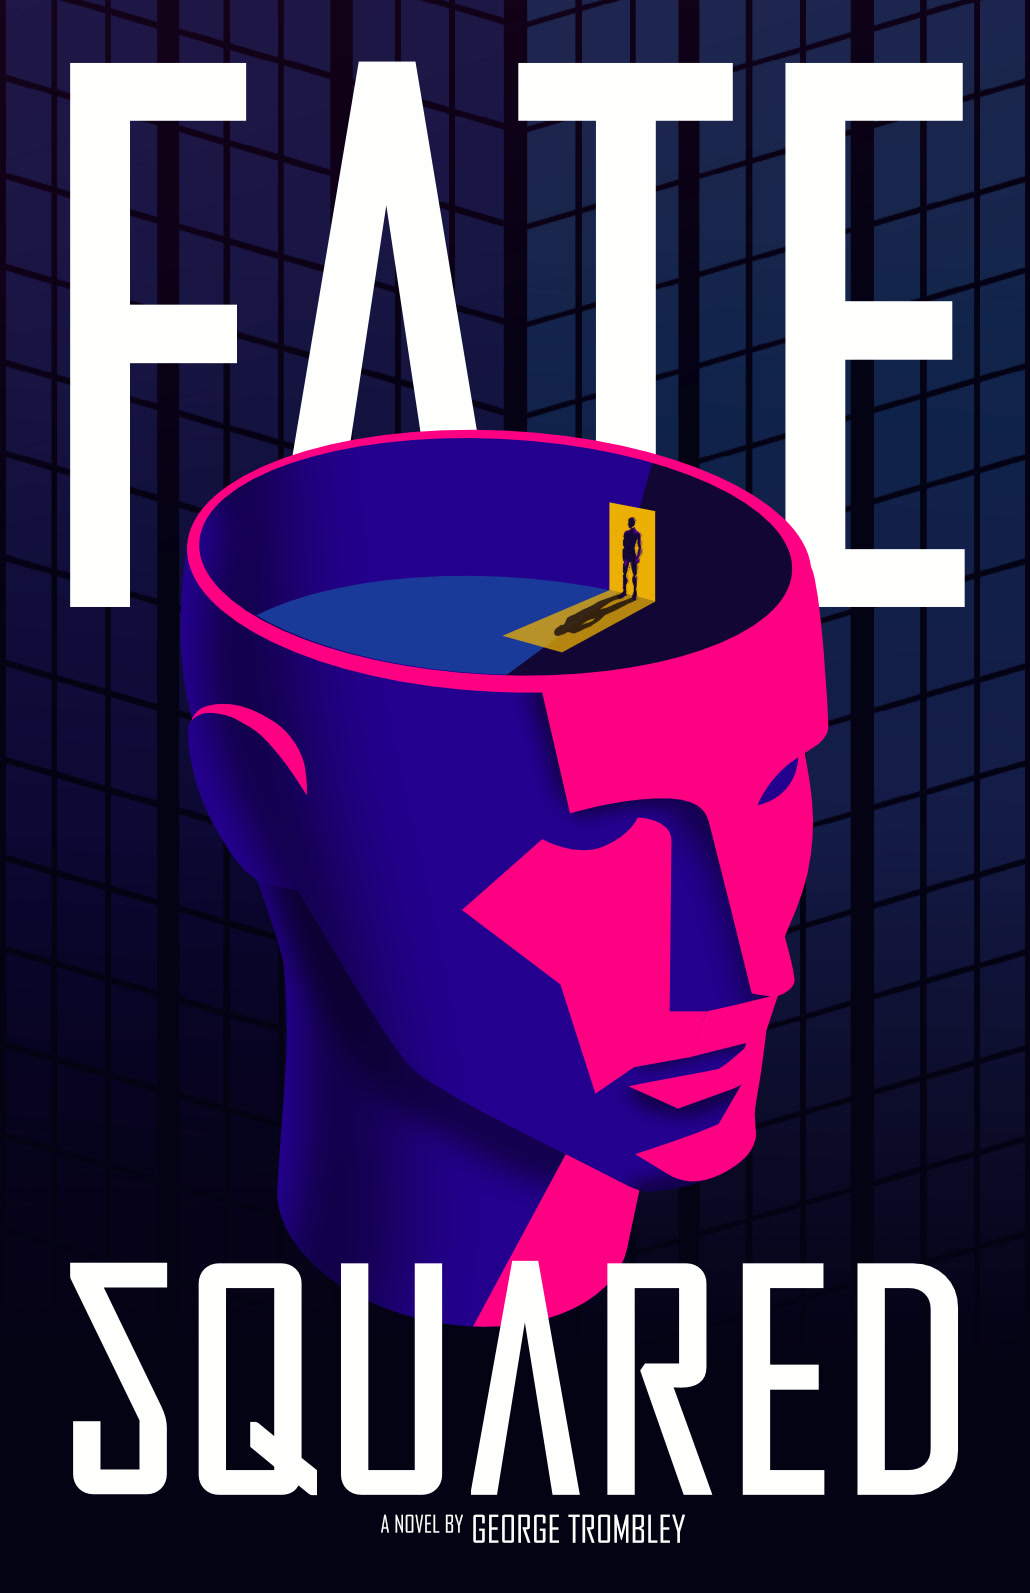
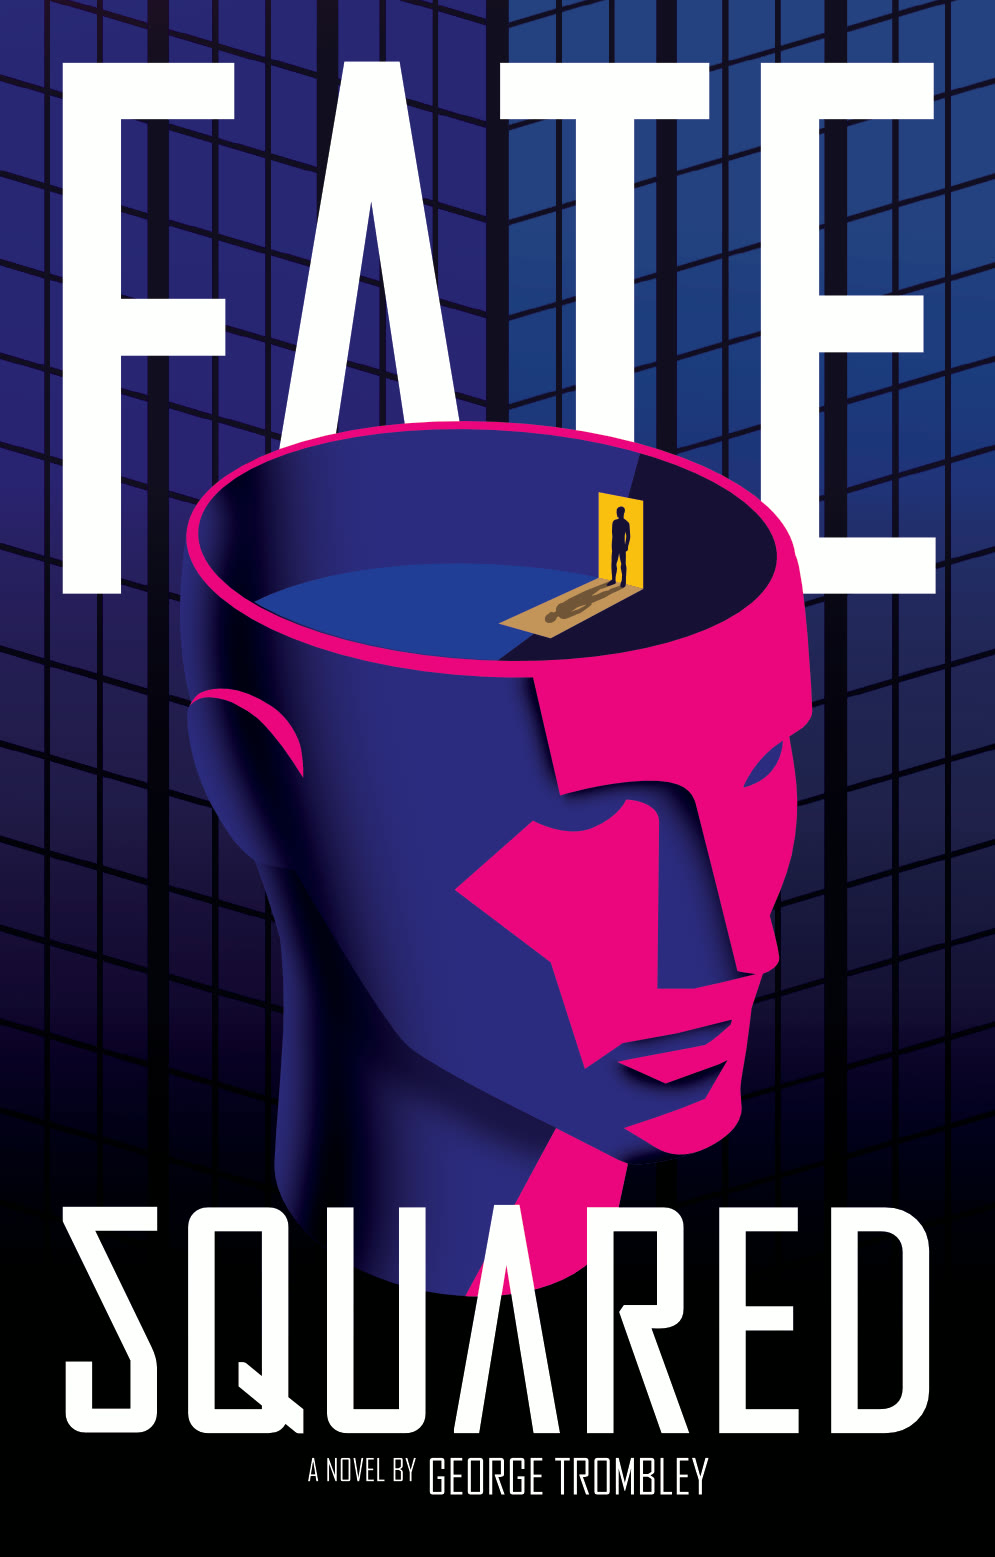
Update the book graphics to the September cover
Re-crop the front, back, spine and social-share images from the new
print spread, and version the image URLs so caches refetch them. The
book's aspect ratio and spine thickness follow the new crop sizes.

diff --git a/index.html b/index.html
@@ -14,14 +14,14 @@
   <meta property="og:title" content="Fate Squared — A Novel by George Trombley">
   <meta property="og:description" content="Is one person's life a fair trade to save millions? A thriller by George Trombley. Coming October 29, 2026 from Sandspeck Press.">
   <meta property="og:url" content="https://fatesquared.com/">
-  <meta property="og:image" content="https://fatesquared.com/assets/og.jpg">
+  <meta property="og:image" content="https://fatesquared.com/assets/og.jpg?v=2">
   <meta property="book:isbn" content="9781959949046">
   <meta property="book:release_date" content="2026-10-29">
   <meta property="book:author" content="George Trombley">
   <meta name="twitter:card" content="summary_large_image">
   <meta name="twitter:title" content="Fate Squared — A Novel by George Trombley">
   <meta name="twitter:description" content="Is one person's life a fair trade to save millions? A thriller by George Trombley. Coming October 29, 2026.">
-  <meta name="twitter:image" content="https://fatesquared.com/assets/og.jpg">
+  <meta name="twitter:image" content="https://fatesquared.com/assets/og.jpg?v=2">
 
   <link rel="icon" href="assets/favicon.svg" type="image/svg+xml">
 
@@ -34,7 +34,7 @@
   <link rel="preconnect" href="https://fonts.googleapis.com">
   <link rel="preconnect" href="https://fonts.gstatic.com" crossorigin>
   <link href="https://fonts.googleapis.com/css2?family=Big+Shoulders+Display:wght@500;700;900&family=Instrument+Sans:ital,wght@0,400;0,500;0,600;0,700;1,400&display=swap" rel="stylesheet">
-  <link rel="stylesheet" href="styles.css?v=3">
+  <link rel="stylesheet" href="styles.css?v=4">
 
   <script type="application/ld+json">
   {
@@ -48,7 +48,7 @@
     "inLanguage": "en",
     "genre": "Thriller",
     "url": "https://fatesquared.com/",
-    "image": "https://fatesquared.com/assets/cover-front.jpg",
+    "image": "https://fatesquared.com/assets/cover-front.jpg?v=2",
     "description": "Is one person's life a fair trade to save millions? Ever since his MMA fighting career ended at its height with a horrible injury, George Williams has worked every day of the week to pay off a crushing debt. Then a shadowy tech corporation called LETR makes him an offer too good to refuse."
   }
   </script>
@@ -109,7 +109,7 @@
         <div class="book" id="book" tabindex="0" role="button" aria-pressed="false" aria-label="Book cover. Press to flip and read the back cover.">
           <div class="book__inner">
             <div class="book__face book__front">
-              <img src="assets/cover-front.jpg" alt="Fate Squared front cover: a stylized magenta and indigo head, its top open to reveal a lone figure standing in a glowing golden doorway." width="990" height="1600" fetchpriority="high" onerror="this.parentNode.classList.add('is-missing')">
+              <img src="assets/cover-front.jpg?v=2" alt="Fate Squared front cover: a stylized magenta and indigo head, its top open to reveal a lone figure standing in a glowing golden doorway." width="995" height="1557" fetchpriority="high" onerror="this.parentNode.classList.add('is-missing')">
               <div class="book__fallback" aria-hidden="true">
                 <span class="book__fallback-title">Fate<br>Squared</span>
                 <span class="book__fallback-door"></span>
@@ -117,14 +117,14 @@
               </div>
             </div>
             <div class="book__face book__back">
-              <img src="assets/cover-back.jpg" alt="Fate Squared back cover with the synopsis and author bio." width="990" height="1600" loading="lazy" onerror="this.parentNode.classList.add('is-missing')">
+              <img src="assets/cover-back.jpg?v=2" alt="Fate Squared back cover with the synopsis and author bio." width="994" height="1557" loading="lazy" onerror="this.parentNode.classList.add('is-missing')">
               <div class="book__fallback book__fallback--back" aria-hidden="true">
                 <span class="book__fallback-q">Is one person's life a fair trade to save millions?</span>
                 <span class="book__fallback-small">Sandspeck Press · 2026</span>
               </div>
             </div>
             <div class="book__spine" aria-hidden="true">
-              <img src="assets/spine.jpg" alt="" width="220" height="1606" onerror="this.parentNode.classList.add('is-missing')">
+              <img src="assets/spine.jpg?v=2" alt="" width="215" height="1557" onerror="this.parentNode.classList.add('is-missing')">
               <span>Fate Squared · George Trombley</span>
             </div>
             <!-- Page block: fore-edge, head and tail. Cream paper, faintly striped. -->

diff --git a/styles.css b/styles.css
@@ -350,7 +350,7 @@ em { font-style: italic; }
   position: relative; z-index: 1;
 }
 
-/* Geometry: the cover file is 1030×1593; the spine on the print spread is 220px
+/* Geometry: the cover file is 995×1557; the spine on the print spread is 215px
    wide at the same scale — a ~1.2" block on a 5.5" trim (400+ pages). Thickness
    is derived from width so it stays in proportion at every size. */
 .book {
@@ -358,11 +358,11 @@ em { font-style: italic; }
   --ry: 0deg;
   --flip: 0deg;
   --book-w: min(360px, 78vw);
-  --book-thick: calc(var(--book-w) * 0.2136);
+  --book-thick: calc(var(--book-w) * 0.2161);
   --page-inset: 1.1%;
   position: relative; z-index: 1;
   width: var(--book-w);
-  aspect-ratio: 1030 / 1593;
+  aspect-ratio: 995 / 1557;
   perspective: 1800px;
   cursor: pointer;
   outline-offset: 12px;

diff --git a/assets/README.md b/assets/README.md
@@ -5,9 +5,9 @@ initials block, hidden section) if one is missing.
 
 | File | Status | Notes |
 |---|---|---|
-| `cover-front.jpg` | ✅ in place | From `Graphics/fate squared front cover.png` (1030×1593), exported as JPG. |
-| `cover-back.jpg` | ✅ in place | From `Graphics/fate squared back cover.png`. Shown when the visitor taps the book. |
-| `spine.jpg` | ✅ in place | The 220×1606 spine strip cropped from `Graphics/fate squared FULL SPREAD.png` (x 1024–1244). Drives the 3D book's spine; its 220:1030 width ratio also sets the book's thickness in CSS (`.book { --book-thick }`). |
+| `cover-front.jpg` | ✅ in place | 995×1557, cropped from the September 2026 print spread (`Updated FateSquared Bookcover.png`, x 1209–2204, full height) and exported as JPG. |
+| `cover-back.jpg` | ✅ in place | 994×1557, cropped from the same spread (x 0–994). Shown when the visitor taps the book. |
+| `spine.jpg` | ✅ in place | The 215×1557 spine strip cropped from the spread (x 994–1209). Drives the 3D book's spine; its 215:995 width ratio also sets the book's thickness in CSS (`.book { --book-thick }`). |
 | `author.jpg` | ✅ in place | 1000×1250 (4:5), cropped from `Graphics/author.png` (3840×2160). Crop region located by template-matching the back-cover portrait against the 4K frame, then widened to 4:5. |
 | `og.jpg` | ✅ generated | 1200×630 social-share image: front cover over a blurred full spread. Regenerate any time with the ffmpeg command below. |
 | `chapter-1.mp3` | optional | If present, the **Listen** section and nav link appear automatically. |
@@ -15,13 +15,39 @@ initials block, hidden section) if one is missing.
 | `FateSquared-Regular.woff2` / `.ttf` | declared, unused | The Regular cut, declared at `font-weight: 400` under the same `FateSquared` family. Nothing currently uses it, so it is never downloaded — switch `.hero__title { font-weight }` to 400 to try it. |
 | `favicon.svg` | ✅ in place | Tab icon. Replace if you like. |
 
-Regenerate `og.jpg` from the source graphics:
+## Print spread layout (September 2026 cover)
+
+The current source is the full print spread `Updated FateSquared Bookcover.png`
+(2227×1557, back + spine + front, no top/bottom bleed). The folds were located
+from the artwork itself:
+
+| Region | Columns | How it was found |
+|---|---|---|
+| back cover | 0–994 | the pink block on the back stops exactly at column 993 |
+| spine | 994–1209 | spine text and the building's corner face are centred at ~1111 |
+| front cover | 1209–2204 | the window art changes shade at 1209 after a dark mullion; the title sits 62 px in from both 1209 and 2204 |
+| right bleed | 2204–2227 | a 23 px dark strip, excluded from the crops |
+
+Back (994) and front (995) come out the same width, which is the sanity check.
+If the spread is replaced, re-measure before trusting these numbers.
+
+Regenerate all four from the spread (run inside `assets/`, spread in the repo root):
 
 ```
-ffmpeg -y -i "fate squared FULL SPREAD.png" -i "fate squared front cover.png" \
+SRC="../Updated FateSquared Bookcover.png"
+ffmpeg -y -i "$SRC" -vf "crop=995:1557:1209:0" -pix_fmt yuvj444p -q:v 3 cover-front.jpg
+ffmpeg -y -i "$SRC" -vf "crop=994:1557:0:0"    -pix_fmt yuvj444p -q:v 3 cover-back.jpg
+ffmpeg -y -i "$SRC" -vf "crop=215:1557:994:0"  -pix_fmt yuvj444p -q:v 2 spine.jpg
+ffmpeg -y -i "$SRC" -i cover-front.jpg \
   -filter_complex "[0]scale=1200:630:force_original_aspect_ratio=increase,crop=1200:630,gblur=sigma=22,eq=brightness=-0.12:saturation=1.15[bg];[1]scale=-1:570[fg];[bg][fg]overlay=(W-w)/2:(H-h)/2" \
-  -q:v 3 og.jpg
+  -pix_fmt yuvj444p -q:v 3 og.jpg
 ```
+
+After changing any image, bump its `?v=` query string in `index.html` (the
+`<img>` tags, the `og:image` / `twitter:image` metas and the JSON-LD `image`)
+so browsers, Cloudflare and the social crawlers pull the new file; then update
+the `width`/`height` attributes and `.book { aspect-ratio; --book-thick }` in
+`styles.css` if the dimensions changed.
 
 Regenerate `author.jpg` from the 4K original:
 
@@ -29,13 +55,8 @@ Regenerate `author.jpg` from the 4K original:
 ffmpeg -y -i author.png -vf "crop=1443:1804:1287:200,scale=1000:1250:flags=lanczos" -q:v 3 author.jpg
 ```
 
-Regenerate `spine.jpg` (if the spread changes, re-measure where the back cover ends / front begins):
-
-```
-ffmpeg -y -i "fate squared FULL SPREAD.png" -vf "crop=220:1606:1024:0" -q:v 2 spine.jpg
-```
-
-Source graphics live at `G:\My Drive\File Cabinet\Novels\Fate Squared\Graphics`.
+Older source graphics (the August 2026 front, back and spread PNGs, plus the
+author photo) live at `G:\My Drive\File Cabinet\Novels\Fate Squared\Graphics`.
 
 ## Hero title weight
 
